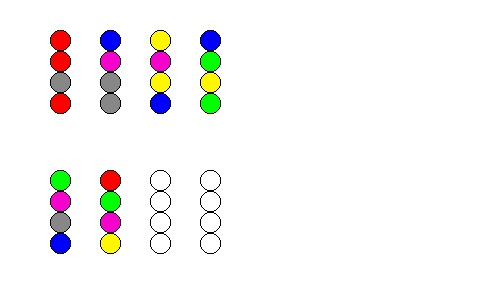
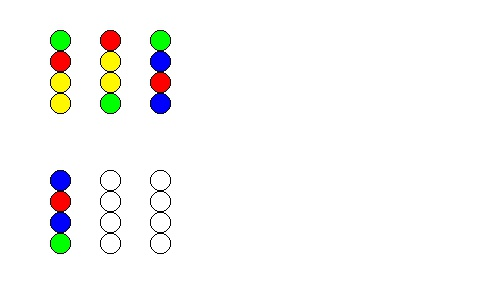
Made new funk SolveRecursive that uses a recursive function to solve to tubes. Works partly for small maps. Problem: if it comes on a wrong path, it will fail instead of trying to go back up in the stack.

diff --git a/main.py b/main.py
@@ -76,6 +76,63 @@ def solve(tubes):
     print("Successful.: " + str(successfulRuns))
 
 
+def solveRecursive(tubes):
+    thistubes = cp.deepcopy(tubes)
+    counter = 0
+    allSuccessfulMoves = []
+    moves = []
+    done = False
+    maxExceeded = 0
+
+    def solve(fromIndex, toIndex):
+        nonlocal done
+        nonlocal maxExceeded
+        #Safety net for stack overflow
+        nonlocal counter 
+        counter += 1
+        if counter > 1500: 
+            maxExceeded += 1
+            return
+
+        #BASE
+        # change to one or-if
+        if isDone(thistubes): 
+            done = True
+            return
+        if len(moves) > 0 and isReversed(moves[-1], [fromIndex,toIndex]): return
+        if not validateMove(thistubes,fromIndex,toIndex): return
+
+        testMove = move(thistubes, fromIndex, toIndex)
+        if testMove[0]:
+            if testMove[1]:
+                moves.append([toIndex, fromIndex])
+            else:
+                moves.append([fromIndex, toIndex])
+        else:
+            return
+
+
+        # RECURSION 
+        # for all possible moves at current stage
+        for i in range(len(thistubes)):
+            for j in range(len(thistubes)):
+                solve(i,j)
+
+    #Surround in 2d for loop
+    for i in range(len(thistubes)):
+        for j in [x for x in range(len(thistubes)) if x != i]:
+            moves = []
+            counter = 0
+            thistubes = cp.deepcopy(tubes)
+            solve(i,j)
+            if done:
+                allSuccessfulMoves.append(cp.deepcopy(moves))
+            done = False
+    print("done")
+
+    
+
+
 def isDone(tubes):
     for tube in tubes:
         if not tubeIsOneColorFull(tube):
@@ -91,14 +148,18 @@ def validateMove(tubes, fromIndex, toIndex):
 
     if tubeIsOneColorFull(fromTube) \
             or tubeIsEmpty(fromTube) \
-            or tubeIsFull(toTube):
+            or tubeIsFull(toTube) \
+            or tubeIsAlmostFull(fromTube):
         return False
 
     if tubeIsOneColor(fromTube) and tubeIsEmpty(toTube):
         return False
 
     return bubblesMatch(fromTube, toTube)
-            
+
+def isReversed(lastMove:list, thisMove:list):
+    return lastMove[0] == thisMove[1] \
+        and lastMove[1] == thisMove[0]
 
 def tubeIsEmpty(tube):
     for b in tube:
@@ -108,6 +169,10 @@ def tubeIsEmpty(tube):
 
 def tubeIsFull(tube):
     return not 0 in tube
+
+def tubeIsAlmostFull(tube):
+    return tube[0] == 0 \
+        and tube[1] == tube[2] == tube[3] != 0
 
 def tubeIsOneColorFull(tube):
     c = tube[0]
@@ -182,12 +247,11 @@ def move(tubes, fromN:int, toN:int):
     return True, flipped
 
 start = datetime.datetime.now()
-solve(tubesOriginal)
+solveRecursive(tubesOriginal)
 end = datetime.datetime.now()
 diff = end-start
 print(diff.total_seconds())
 
-# test = np.array([[0,1,1,1],[0,0,0,1]])
-# print(move(test,1,0))
-# print(test)
+# testTubes = [[0,2,2,0],[1,2,3,4],[1,1,1,1],[0,2,2,2],[0,0,0,0]]
+# print(tubeIsAlmostFull(testTubes[4]))
 

diff --git a/tubes.py b/tubes.py
@@ -23,14 +23,14 @@ tubesOriginal = np.array(
     #     [2,1,4,4],[1,4,4,2],[2,3,1,3],
     #     [3,1,3,2],[0,0,0,0],[0,0,0,0]
     # ]
-    [
-        [1,1,6,1],[3,5,6,6],[4,5,4,3],[3,2,4,2],
-        [2,5,6,3],[1,2,5,4],[0,0,0,0],[0,0,0,0]
-    ]
     # [
-    #     [1,5,6,7],[3,4,7,1],[2,3,5,7],[8,6,6,5],[5,8,8,3],[9,2,9,4],
-    #     [7,6,9,3],[8,2,2,1],[9,4,1,4],[0,0,0,0],[0,0,0,0]
+    #     [1,1,6,1],[3,5,6,6],[4,5,4,3],[3,2,4,2],
+    #     [2,5,6,3],[1,2,5,4],[0,0,0,0],[0,0,0,0]
     # ]
+    [
+        [1,5,6,7],[3,4,7,1],[2,3,5,7],[8,6,6,5],[5,8,8,3],[9,2,9,4],
+        [7,6,9,3],[8,2,2,1],[9,4,1,4],[0,0,0,0],[0,0,0,0]
+    ]
     # Not ready
     # [  
     #     [4,7,1,8],[4,9,4,9],[5,8,10,3],[3,11,6,3],[5,2,10,2],[1,6,8,4],[1,6,5,12],
